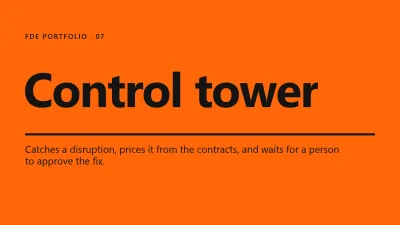
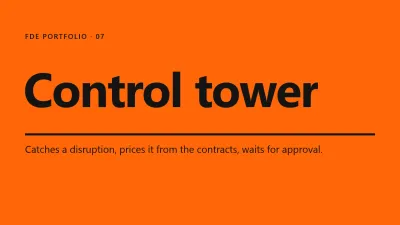
Control tower: name matches the other FDE entries (Control Tower); one-line title-card poster keeps Play off the subtitle; share image regenerated

Changed region(s): [[0.06, 0.6844, 0.27, 0.7467], [0.6, 0.6533, 0.87, 0.6844]]

diff --git a/src/content.ts b/src/content.ts
@@ -750,7 +750,7 @@ export const projects: Project[] = [
   },
   {
     slug: "fde-control-tower",
-    name: "Tarangini control tower",
+    name: "fde-control-tower",
     tagline: "Ranks a distributor's disruptions by rupees at risk, triages each from the contract clauses, and waits for a person before moving goods.",
     discipline: "systems",
     category: "applied-ai",
